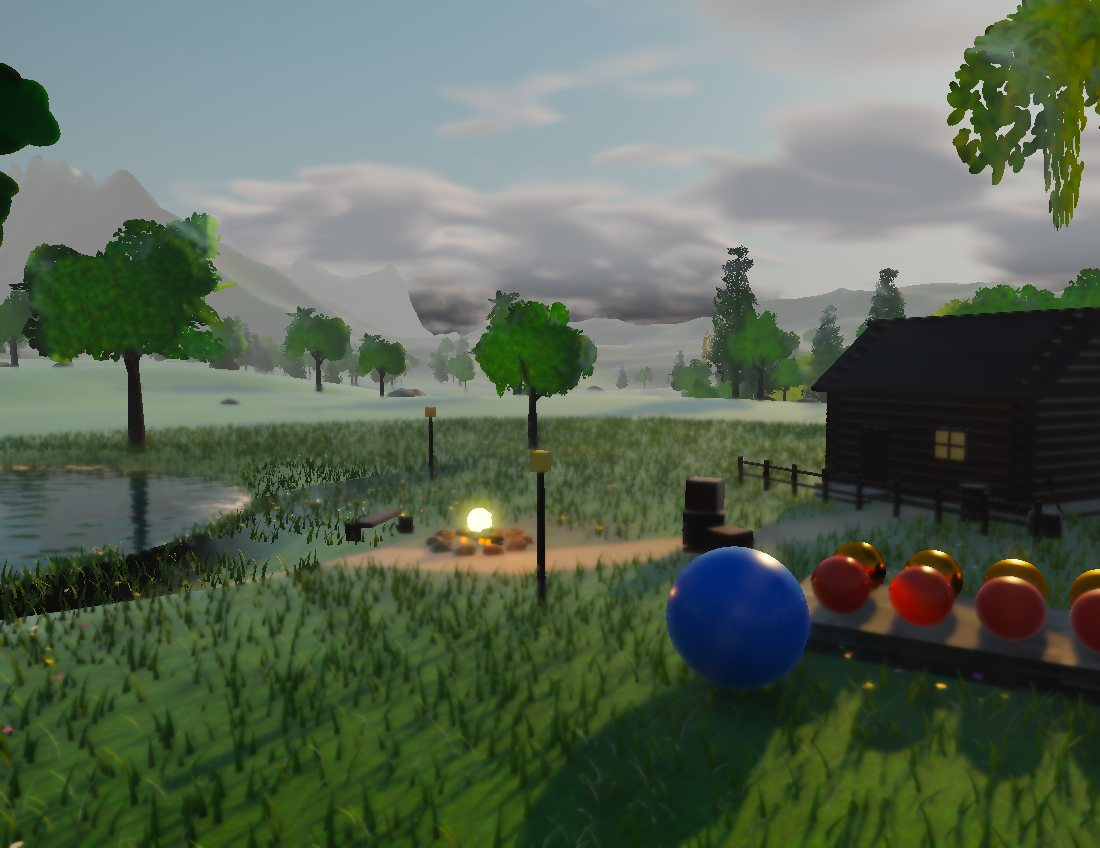
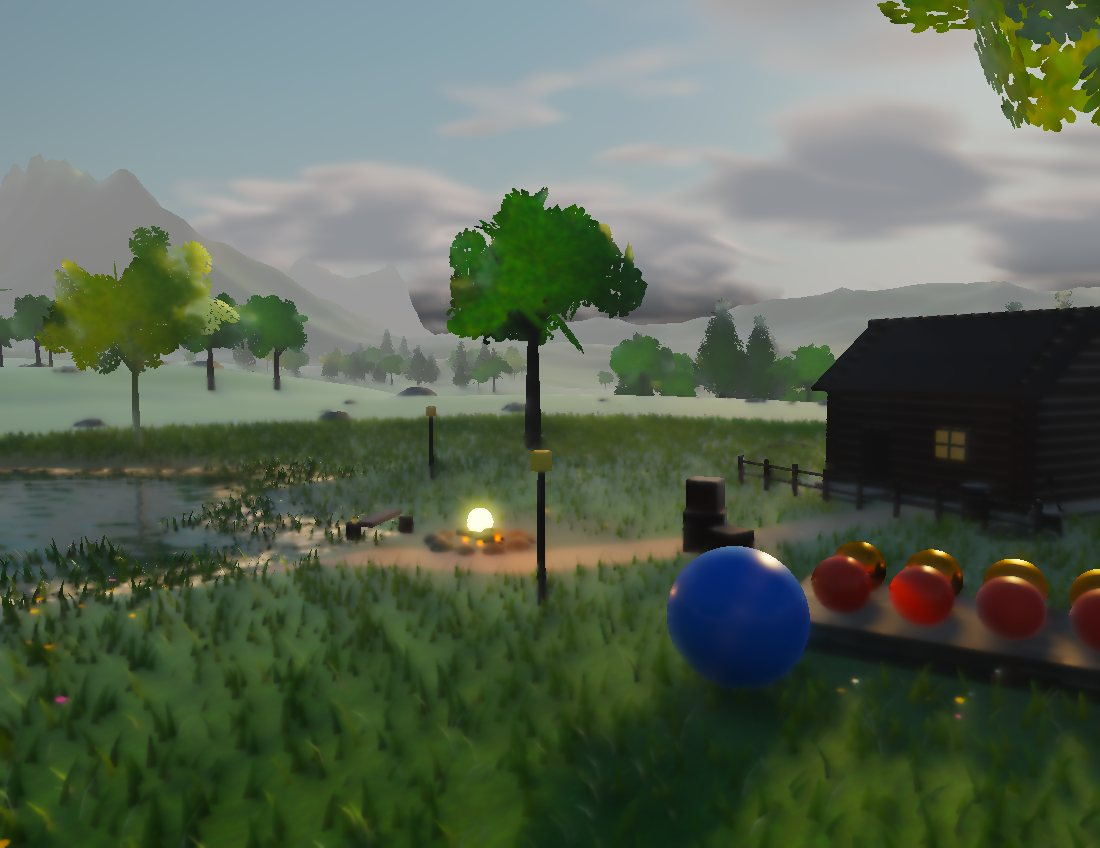
Sky, Sun & Light: a real water level, steadier grass, faster defaults

diff --git a/sandbox/sky-and-light.html b/sandbox/sky-and-light.html
@@ -75,20 +75,20 @@ const compose = (p, ry, s) => new THREE.Matrix4().compose(p, new THREE.Quaternio
 
 // the ground: flat around the camp, rolling hills, then mountains with snow, from noise
 const LAKE = new THREE.Vector3(-19, 0, 11), LAKE_R = 11.5, FIRE = new THREE.Vector3(1.5, 0, 4), CABIN = new THREE.Vector3(10.5, 0, -9);
-function terrainH(x, z) { const d = Math.hypot(x, z); const flat = sstep(38, 130, d); const hills = (fbm(x / 230 + 5, z / 230 + 9, 4) - 0.5) * 2 * 24; const far = sstep(380, 1000, d); const ridge = ridged(x / 760 + 3, z / 760 + 1, 5); const mountains = ridge * ridge * 300 * far; const detail = (fbm(x / 16, z / 16, 3) - 0.5) * 1.4; const dl = Math.hypot(x - LAKE.x, z - LAKE.z); const dip = -3.2 * (1 - sstep(LAKE_R - 3, LAKE_R + 3.5, dl)); return flat * (hills + mountains) + detail * (0.25 + 0.75 * flat) + dip; }
+function terrainH(x, z) { const d = Math.hypot(x, z); const flat = sstep(38, 130, d); const hills = (fbm(x / 230 + 5, z / 230 + 9, 4) - 0.5) * 2 * 24; const far = sstep(380, 1000, d); const ridge = ridged(x / 760 + 3, z / 760 + 1, 5); const mountains = ridge * ridge * 300 * far; const detail = (fbm(x / 16, z / 16, 3) - 0.5) * 1.4; const dl = Math.hypot(x - LAKE.x, z - LAKE.z); const dip = -3.4 * (1 - sstep(LAKE_R - 4, LAKE_R + 2.5, dl)); return flat * (hills + mountains) + detail * (0.25 + 0.75 * flat) + dip; }
 const t0 = performance.now();
 { const g = new THREE.PlaneGeometry(2600, 2600, 300, 300); g.rotateX(-Math.PI / 2); const pos = g.attributes.position; for (let i = 0; i < pos.count; i++) pos.setY(i, terrainH(pos.getX(i), pos.getZ(i))); g.computeVertexNormals(); const bi = newBlas(); addPart(bi, g, M.TERRAIN); addInst(bi, new THREE.Matrix4()); }
 
 // grass: one bent blade, copied tens of thousands of times straight into world space (one flat tree of boxes beats a box per blade)
 const PATH = [[CABIN.x - 1.2, CABIN.z + 3.2], [7, 0], [FIRE.x + 1.8, FIRE.z + 1.2], [-4, 8], [LAKE.x + LAKE_R - 1.5, LAKE.z - 3]];
 function pathDist(x, z) { let d = 1e9; for (let i = 0; i + 1 < PATH.length; i++) { const [ax, az] = PATH[i], [bx, bz] = PATH[i + 1]; const vx = bx - ax, vz = bz - az; const t = Math.max(0, Math.min(1, ((x - ax) * vx + (z - az) * vz) / (vx * vx + vz * vz))); d = Math.min(d, Math.hypot(x - ax - vx * t, z - az - vz * t)); } return d; }
-function clearOf(x, z) { if (pathDist(x, z) < 0.75 + fbm(x * 0.5, z * 0.5, 2) * 0.4) return false; if (Math.hypot(x - LAKE.x, z - LAKE.z) < LAKE_R + 1) return false; if (Math.hypot(x - FIRE.x, z - FIRE.z) < 2.4) return false; const dx = x - CABIN.x, dz = z - CABIN.z, ca = Math.cos(0.55), sa = Math.sin(0.55); const lx = dx * ca - dz * sa, lz = dx * sa + dz * ca; if (Math.abs(lx) < 4.4 && Math.abs(lz) < 3.6) return false; if (Math.abs(x - 13) < 4.2 && Math.abs(z - 6) < 1.8) return false; return true; }
-{ const segs = 3, w = 0.03; const P = [], Uv = [], I = []; for (let i = 0; i <= segs; i++) { const t = i / segs, ww = w * (1 - t * 0.85); P.push(-ww, t, t * t * 0.18, ww, t, t * t * 0.18); Uv.push(0, t, 1, t); } for (let i = 0; i < segs; i++) { const a = i * 2; I.push(a, a + 1, a + 2, a + 1, a + 3, a + 2); }
+function clearOf(x, z) { if (pathDist(x, z) < 0.75 + fbm(x * 0.5, z * 0.5, 2) * 0.4) return false; if (terrainH(x, z) < -0.35) return false; if (Math.hypot(x - FIRE.x, z - FIRE.z) < 2.4) return false; const dx = x - CABIN.x, dz = z - CABIN.z, ca = Math.cos(0.55), sa = Math.sin(0.55); const lx = dx * ca - dz * sa, lz = dx * sa + dz * ca; if (Math.abs(lx) < 4.4 && Math.abs(lz) < 3.6) return false; if (Math.abs(x - 13) < 4.2 && Math.abs(z - 6) < 1.8) return false; return true; }
+{ const segs = 2, w = 0.03; const P = [], Uv = [], I = []; for (let i = 0; i <= segs; i++) { const t = i / segs, ww = w * (1 - t * 0.85); P.push(-ww, t, t * t * 0.18, ww, t, t * t * 0.18); Uv.push(0, t, 1, t); } for (let i = 0; i < segs; i++) { const a = i * 2; I.push(a, a + 1, a + 2, a + 1, a + 3, a + 2); }
   const g0 = new THREE.BufferGeometry(); g0.setAttribute('position', new THREE.Float32BufferAttribute(P, 3)); g0.setAttribute('uv', new THREE.Float32BufferAttribute(Uv, 2)); g0.setIndex(I); g0.computeVertexNormals(); const g = g0.toNonIndexed();
   const bp = g.attributes.position.array, bn = g.attributes.normal.array, bu = g.attributes.uv.array, nv = g.attributes.position.count; const bi = newBlas(); const B = blas[bi];
   let n = 0, tries = 0; const m = new THREE.Matrix4(), nm = new THREE.Matrix3(), p = new THREE.Vector3(), sc = new THREE.Vector3(), vv = new THREE.Vector3(), vn3 = new THREE.Vector3();
-  while (n < 45000 && tries++ < 300000) { const a = rnd() * Math.PI * 2, r = 36 * Math.sqrt(rnd()); const x = Math.cos(a) * r, z = Math.sin(a) * r; if (!clearOf(x, z)) continue; if (rnd() > 0.35 + 0.65 * fbm(x / 9, z / 9, 2)) continue;
-    p.set(x, terrainH(x, z) - 0.02, z); sc.set(1 + rnd() * 0.5, 0.16 + rnd() * 0.28, 1); m.compose(p, new THREE.Quaternion().setFromAxisAngle(UPV, rnd() * Math.PI * 2), sc); nm.getNormalMatrix(m);
+  while (n < 32000 && tries++ < 300000) { const a = rnd() * Math.PI * 2, r = 36 * Math.sqrt(rnd()); const x = Math.cos(a) * r, z = Math.sin(a) * r; if (!clearOf(x, z)) continue; if (rnd() > 0.35 + 0.65 * fbm(x / 9, z / 9, 2)) continue; const far = Math.pow(r / 36, 1.5);
+    p.set(x, terrainH(x, z) - 0.02, z); sc.set((1 + rnd() * 0.5) * (1 + 2.2 * far), 0.16 + rnd() * 0.28 + 0.1 * far, 1); m.compose(p, new THREE.Quaternion().setFromAxisAngle(UPV, rnd() * Math.PI * 2), sc); nm.getNormalMatrix(m);
     for (let i = 0; i < nv; i++) { vv.set(bp[i * 3], bp[i * 3 + 1], bp[i * 3 + 2]).applyMatrix4(m); vn3.set(bn[i * 3], bn[i * 3 + 1], bn[i * 3 + 2]).applyMatrix3(nm).normalize(); B.tris.push(vv.x, vv.y, vv.z); B.nrms.push(vn3.x, vn3.y, vn3.z); B.uvs.push(bu[i * 2], bu[i * 2 + 1]); if (i % 3 === 0) B.mats.push(M.GRASS); } n++; }
   // wildflowers: a stem and a small tilted head, in drifts
   let nf = 0, ft = 0; while (nf < 2200 && ft++ < 60000) { const a = rnd() * Math.PI * 2, r = 34 * Math.sqrt(rnd()); const x = Math.cos(a) * r, z = Math.sin(a) * r; if (!clearOf(x, z)) continue; if (fbm(x / 6 + 40, z / 6 + 9, 2) < 0.58) continue; const y = terrainH(x, z); const mat = rnd() < 0.5 ? FLOWER_Y : rnd() < 0.6 ? FLOWER_W : FLOWER_P; const hgt = 0.22 + rnd() * 0.16;
@@ -153,7 +153,7 @@ const rockB = [newBlas(), newBlas()]; addPart(rockB[0], rockGeo(3), M.ROCK); add
   for (let i = 0; i < 10; i++) { const a = i / 10 * Math.PI * 2, s = 0.22 + rnd() * 0.1; addInst(rockB[i % 2], new THREE.Matrix4().compose(new THREE.Vector3(FIRE.x + Math.cos(a) * 1.05, fy + 0.05, FIRE.z + Math.sin(a) * 1.05), new THREE.Quaternion().setFromAxisAngle(UPV, rnd() * 6), new THREE.Vector3(s, s, s))); }
   for (let i = 0; i < 6; i++) spheres.push({ c: new THREE.Vector3(FIRE.x + (rnd() - 0.5) * 0.7, fy + 0.1, FIRE.z + (rnd() - 0.5) * 0.7), r: 0.06, mat: M.EMBER, light: 0 });
   spheres.push({ c: new THREE.Vector3(FIRE.x, fy + 0.55, FIRE.z), r: 0.3, mat: M.FLAME, light: 1 });
-  const lake = new THREE.CircleGeometry(LAKE_R + 1.5, 64); lake.rotateX(-Math.PI / 2); add(lake, M.WATER, new THREE.Vector3(LAKE.x, -0.55, LAKE.z));
+  const lake = new THREE.CircleGeometry(19, 72); lake.rotateX(-Math.PI / 2); add(lake, M.WATER, new THREE.Vector3(LAKE.x, -0.55, LAKE.z));
   addInst(bi, new THREE.Matrix4()); }
 const plinthY = terrainH(13, 6) + 0.2; const ballSpots = [];
 for (let i = 0; i < 6; i++) for (let row = 0; row < 2; row++) { const c = new THREE.Vector3(13 - 2.75 + i * 1.1, plinthY + 0.25 + 0.42, 6 + (row ? -0.6 : 0.6)); ballSpots.push(c); spheres.push({ c, r: 0.42, mat: BALL0 + i * 2 + row, light: 0 }); }
@@ -502,14 +502,14 @@ fn terrainColor(p: vec3f, n: vec3f) -> vec3f { let slope = 1.0 - n.y; let macroN
   var c = mix(${v3s(0x4f7a2f).replace('vec3(', 'vec3f(')}, ${v3s(0x6f8a3a).replace('vec3(', 'vec3f(')}, smoothstep(0.35, 0.65, macroN)); c = mix(c, ${v3s(0x3f6a33).replace('vec3(', 'vec3f(')}, smoothstep(0.3, 0.7, micro) * 0.5);
   c = mix(c, ${v3s(0x6b5a3c).replace('vec3(', 'vec3f(')}, smoothstep(0.22, 0.45, slope + (micro - 0.5) * 0.15)); c = mix(c, ${v3s(0x76726a).replace('vec3(', 'vec3f(')}, smoothstep(0.4, 0.62, slope));
   let snowLine = 150.0 + (macroN - 0.5) * 60.0; c = mix(c, ${v3s(0xf2f5f8).replace('vec3(', 'vec3f(')}, smoothstep(snowLine, snowLine + 35.0, p.y) * (1.0 - smoothstep(0.5, 0.75, slope)));
-  let dl = distance(p.xz, LAKE); c = mix(c, ${v3s(0x8c7d5c).replace('vec3(', 'vec3f(')}, (1.0 - smoothstep(LAKE_R + 0.5, LAKE_R + 4.0, dl)) * 0.85);
+  let dl = distance(p.xz, LAKE); let shore = (1.0 - smoothstep(-0.2, 0.5, p.y)) * (1.0 - smoothstep(LAKE_R + 2.0, LAKE_R + 7.0, dl)); c = mix(c, ${v3s(0x8c7d5c).replace('vec3(', 'vec3f(')}, shore * 0.9);
   let df = distance(p.xz, FIRE); c = mix(c, ${v3s(0x6b5a3c).replace('vec3(', 'vec3f(')}, (1.0 - smoothstep(2.5, 5.0, df + (micro - 0.5) * 2.0)) * 0.8);
   let gt = pow(textureSampleLevel(texArr, samp, p.xz * 0.35, 9, 0.0).rgb, vec3f(2.2)); let det = textureSampleLevel(texArr, samp, p.xz * 0.14, 8, 0.0).r; c = c * (0.55 + 0.9 * det) * mix(vec3f(1.0), gt * 3.2, 0.55);
   let an = pow(abs(n), vec3f(4.0)); let aw = an / (an.x + an.y + an.z); let rk = pow(textureSampleLevel(texArr, samp, p.zy * 0.12, 5, 0.0).rgb, vec3f(2.2)) * aw.x + pow(textureSampleLevel(texArr, samp, p.xz * 0.12, 5, 0.0).rgb, vec3f(2.2)) * aw.y + pow(textureSampleLevel(texArr, samp, p.xy * 0.12, 5, 0.0).rgb, vec3f(2.2)) * aw.z;
   let rockAmt = smoothstep(0.3, 0.55, slope + (micro - 0.5) * 0.2); c = mix(c, rk * 1.5 * mix(vec3f(0.9, 0.88, 0.85), vec3f(1.0), 0.5), rockAmt * (1.0 - smoothstep(snowLine + 10.0, snowLine + 45.0, p.y)));
   let far = smoothstep(150.0, 260.0, length(p.xz)); let forest = smoothstep(0.42, 0.5, fb3(p.xz / 110.0 + vec2f(8.0, 2.0))) * (1.0 - smoothstep(110.0, 130.0, p.y)) * (1.0 - smoothstep(0.35, 0.5, slope)); let canopy = fb3(p.xz * 0.35); c = mix(c, vec3f(0.06, 0.13, 0.05) * (0.7 + 0.6 * canopy), forest * far * 0.85);
   let pd = pathDist(p.xz); c = mix(c, vec3f(0.30, 0.22, 0.13) * (0.8 + 0.4 * det), 1.0 - smoothstep(0.55, 1.05, pd + (micro - 0.5) * 0.4));
-  c = mix(c, c * 0.55, (1.0 - smoothstep(LAKE_R - 0.5, LAKE_R + 1.6, dl))); return c; }
+  c = mix(c, c * 0.5, (1.0 - smoothstep(-0.6, 0.0, p.y)) * (1.0 - smoothstep(LAKE_R + 2.0, LAKE_R + 7.0, dl))); return c; }
 const NPATH: i32 = ${PATH.length};
 fn pathDist(q: vec2f) -> f32 { var pts = array<vec2f, ${PATH.length}>(${PATH.map(([x, z]) => `vec2f(${x.toFixed(2)}, ${z.toFixed(2)})`).join(', ')}); var d = 1e9; for (var i = 0; i < NPATH - 1; i++) { let a = pts[i]; let b = pts[i + 1]; let v = b - a; let t = clamp(dot(q - a, v) / dot(v, v), 0.0, 1.0); d = min(d, length(q - a - v * t)); } return d; }
 fn grassColor(p: vec3f, uv: vec2f) -> vec3f { let h = vn(p.xz * 0.15 + 3.0); let g = mix(${v3s(0x3f7a22).replace('vec3(', 'vec3f(')}, ${v3s(0x86a83a).replace('vec3(', 'vec3f(')}, h); return g * mix(0.35, 1.05, uv.y); }
@@ -590,7 +590,7 @@ fn upsampleG(px: vec2i, A: vec4f, n: vec3f) -> vec4f { let st = P.giStride; let 
     let ndl = max(dot(n, P.sunDir.xyz), 0.0); col += P.sunCol.xyz * sunVis * ndl * (diffuse + specBRDF(n, v, P.sunDir.xyz, rough, F0));
     let mflag = P.matB[i32(D.w)].w; if (mflag == 4.0 || mflag == 2.0) { let back = max(-dot(n, P.sunDir.xyz), 0.0); col += P.sunCol.xyz * alb * vec3f(0.9, 1.0, 0.6) * back * select(0.22, 0.32, mflag == 4.0) * (0.3 + 0.7 * sunVis) * max(dot(v, -P.sunDir.xyz), 0.0); }
     let ndm = max(dot(n, P.moonDir.xyz), 0.0); col += P.moonCol.xyz * moonVis * ndm * diffuse;
-    col += sphereLights(p + n * 3e-3, n, v, diffuse, F0, rough, ign0(vec2f(px)), 1, 24.0);
+    col += sphereLights(p + n * 3e-3, n, v, diffuse, F0, rough, ign0(vec2f(px)), 1, 20.0);
     col += diffuse * E;
     let R = textureLoad(tR, px, 0); let open = clamp(dot(E, vec3f(0.33)) / max(dot(skyAmb(n), vec3f(0.33)), 1e-3), 0.0, 1.0);
     let specAmb = F * mix(P.skyHor.xyz, P.skyZen.xyz, reflect(-v, n).y * 0.5 + 0.5) * P.skyOn * open;
@@ -699,8 +699,8 @@ async function startWebGPU() {
 gpu = await startWebGPU();
 
 // ---- state
-let hour = 9.5, running = false, sunStrength = 1, moonOn = true, lightFrom = 'both', autoExp = true, exposure = 0.5, fogOn = true, fogDensity = 0.0015, stillScale = 1, moveScale = 1, accumulate = true, fireOn = true, lampsOn = true, rowsOn = true, denoise = true, quality = 'high';
-let lastMove = 0, runT = 0; const lastCam = new THREE.Matrix4(); let stateKey = '';
+let hour = 9.5, running = false, sunStrength = 1, moonOn = true, lightFrom = 'both', autoExp = true, exposure = 0.5, fogOn = true, fogDensity = 0.0015, stillScale = 1, moveScale = 1, accumulate = true, fireOn = true, lampsOn = true, rowsOn = true, denoise = true, quality = 'balanced';
+let lastMove = 0, runT = 0, stillN = 0; const lastCam = new THREE.Matrix4(); let stateKey = '';
 function dirty() { accN = 0; }
 function placeSun() {
   const el = 72 * Math.sin(Math.PI * (hour - 5) / 15) * Math.PI / 180, az = (90 + (hour - 12.5) * 15) * Math.PI / 180;
@@ -759,7 +759,7 @@ s5.slider('Sun shafts', { min: 0, max: 1, step: 0.02, value: 0.35, fmt: v => (+v
 
 const s6 = sb.panel.section('06 · The renderer', 'This is how a game ray traces: one ray per pixel finds the surface, a few rays per pixel ask the sun, the moon, the fire and the sky, one mirror ray serves anything smooth, and the soft light is worked out at half size and smoothed without crossing edges. Nothing is random, so every frame is complete. Holding still only adds anti-aliasing.');
 s6.segment('Show', [{ value: 0, label: 'the picture' }, { value: 1, label: 'the sun\'s shadow rays' }, { value: 2, label: 'sky and bounce light' }, { value: 3, label: 'the mirror rays' }], 0, v => { compMat.uniforms.uView.value = +v; dirty(); });
-s6.segment('Quality', [{ value: 'balanced', label: 'balanced' }, { value: 'high', label: 'high' }, { value: 'ultra', label: 'ultra' }], 'high', v => { quality = v; if (v === 'ultra') { U.uShadowK.value = 4; U.uGiK.value = 6; } dirty(); });
+s6.segment('Quality', [{ value: 'balanced', label: 'balanced' }, { value: 'high', label: 'high' }, { value: 'ultra', label: 'ultra' }], 'balanced', v => { quality = v; if (v === 'ultra') { U.uShadowK.value = 4; U.uGiK.value = 6; } dirty(); });
 s6.segment('Shadow rays per pixel, toward the sun', [{ value: 1, label: '1' }, { value: 2, label: '2' }, { value: 4, label: '4' }, { value: 8, label: '8' }], 2, v => { U.uShadowK.value = +v; dirty(); });
 s6.segment('Rays per pixel for sky and bounce light', [{ value: 2, label: '2' }, { value: 4, label: '4' }, { value: 6, label: '6' }, { value: 8, label: '8' }], 4, v => { U.uGiK.value = +v; dirty(); });
 s6.toggle('smooth the shadow and bounce answers (denoise)', true, v => { denoise = v; dirty(); });
@@ -767,7 +767,7 @@ s6.segment('Picture size while still', [{ value: 1, label: 'full' }, { value: 0.
 s6.segment('Picture size while moving', [{ value: 1, label: 'full' }, { value: 0.5, label: 'half' }, { value: 0.35, label: 'a third' }], 1, v => { moveScale = +v; });
 s6.toggle('anti-alias by blending frames while still', true, v => { accumulate = v; dirty(); });
 const triRead = s6.readout('triangles in the scene'), instRead = s6.readout('placed copies'), boxRead = s6.readout('boxes in the trees'), buildRead = s6.readout('building the trees took'), accRead = s6.readout('frames blended for anti-aliasing'), msRead = s6.readout('milliseconds per frame');
-triRead(totalTris.toLocaleString() + (gpu ? ' · WebGPU' : ' · WebGL')); instRead(NI.toLocaleString() + ' (' + treeCount + ' trees, 45,000 blades of grass)'); boxRead(nodeTotal.toLocaleString()); buildRead((genMs + buildMs).toFixed(0) + ' ms');
+triRead(totalTris.toLocaleString() + (gpu ? ' · WebGPU' : ' · WebGL')); instRead(NI.toLocaleString() + ' (' + treeCount + ' trees, 32,000 blades of grass)'); boxRead(nodeTotal.toLocaleString()); buildRead((genMs + buildMs).toFixed(0) + ' ms');
 
 const sunPos = new THREE.Vector3(); const sunLabel = sb.label('the sun', sunPos, 'amber');
 sb.label('the lake: the sky, reflected', new THREE.Vector3(LAKE.x, 0, LAKE.z)).off.set(0, 0.6, 0);
@@ -783,7 +783,7 @@ placeSun();
 sb.onFrame((dt) => {
   if (running) { runT += dt; if (runT > 2) { runT = 0; hour += 0.35; if (hour > 21) hour = 4.5; hourS.set(hour, false); placeSun(); } }
   fx.time += dt; { const night = 1 - THREE.MathUtils.smoothstep(sunDir.y, -0.02, 0.06); fireflies.forEach((f, i) => { const sp = spheres[spheres.length - 14 + i]; const t = fx.time * 0.35 + f.s; sp.c.set(f.x + Math.sin(t * 1.3) * 2.2 + Math.sin(t * 0.7 + 2) * 1.1, night > 0.2 ? terrainH(f.x, f.z) + f.h + Math.sin(t * 2.1) * 0.35 : -500, f.z + Math.cos(t * 1.1) * 2.2 + Math.cos(t * 0.5 + 1) * 1.0); }); matB[FIREFLY * 4 + 1] = 12 * (0.5 + 0.5 * Math.sin(fx.time * 3)) * night; writeSpheres(); }
-  if (fireOn) { const fl = 0.92 + 0.12 * vnoise(fx.time * 6, 3) + 0.05 * vnoise(fx.time * 17, 8); matB[M.FLAME * 4 + 1] = 45 * fl; matB[M.EMBER * 4 + 1] = 6 * (0.85 + 0.3 * vnoise(fx.time * 4, 1)); const fs = spheres[8]; fs.c.set(FIRE.x + (vnoise(fx.time * 5, 2) - 0.5) * 0.06, terrainH(FIRE.x, FIRE.z) + 0.55 + (vnoise(fx.time * 6, 4) - 0.5) * 0.08, FIRE.z + (vnoise(fx.time * 5, 9) - 0.5) * 0.06); fs.r = 0.28 + 0.04 * vnoise(fx.time * 9, 6); writeSpheres(); }
+  if (fireOn) { const fl = 0.95 + 0.07 * vnoise(fx.time * 5, 3) + 0.03 * vnoise(fx.time * 13, 8); matB[M.FLAME * 4 + 1] = 45 * fl; matB[M.EMBER * 4 + 1] = 6 * (0.85 + 0.3 * vnoise(fx.time * 4, 1)); const fs = spheres[8]; fs.c.set(FIRE.x + (vnoise(fx.time * 4, 2) - 0.5) * 0.03, terrainH(FIRE.x, FIRE.z) + 0.55 + (vnoise(fx.time * 5, 4) - 0.5) * 0.05, FIRE.z + (vnoise(fx.time * 4, 9) - 0.5) * 0.03); fs.r = 0.29 + 0.02 * vnoise(fx.time * 7, 6); writeSpheres(); }
   const now = performance.now(); if (lastNow) msAvg += ((now - lastNow) - msAvg) * 0.08; lastNow = now; msRead(msAvg.toFixed(1) + ' ms');
   expRead(exposure.toFixed(2) + (autoExp ? ', automatic' : ', by hand')); accRead(!accumulate ? 'off' : gpu ? 'temporal, reprojected' : Math.min(accN, 32) + (accN === 1 ? ' frame' : ' frames') + (rtScale < 1 ? ', small picture' : ''));
   sb.hud('mode', (hour < 5 || hour > 20 ? 'night: dark except where the fire and the lanterns reach, and a little moon' : hour < 8 || hour > 17.5 ? 'a low sun through a lot of air: orange light, long soft shadows' : 'high sun: white light, blue sky, hills fading into blue haze') + ' · one ray per pixel finds the surface, a few more light it');
@@ -797,7 +797,8 @@ sb.onRender((scene, camera, renderer) => {
     const hal = (i, b) => { let f = 1, r = 0; while (i > 0) { f /= b; r += f * (i % b); i = Math.floor(i / b); } return r; }; const k = frame % 8 + 1; const jit = accumulate ? new THREE.Vector2((hal(k, 2) - 0.5) * 0.7, (hal(k, 3) - 0.5) * 0.7) : new THREE.Vector2(); U.uNoiseShift.value = accumulate ? (frame % 16) * 0.618034 : 0;
     U.uInvPV.value.copy(invPV); U.uCamPos.value.copy(camera.position); U.uFrame.value = frame++; accN = accumulate ? Math.min(accN + 1, 32) : 0;
     const ss = quality === 'balanced' ? 2 : 1, gs = quality === 'ultra' ? 2 : 4;
-    gpu.render(w, h, accumulate ? (moving ? 0.12 : 0.03) : 1, compMat.uniforms.uView.value, jit, denoise, ss, gs); return;
+    stillN = moving ? 0 : stillN + 1; const taaBlend = moving ? 0.12 : stillN < 40 ? 0.05 : stillN < 120 ? 0.02 : 0.01;
+    gpu.render(w, h, accumulate ? taaBlend : 1, compMat.uniforms.uView.value, jit, denoise, ss, gs); return;
   }
   if (!lastCam.equals(camera.matrixWorld)) { lastCam.copy(camera.matrixWorld); lastMove = performance.now(); dirty(); }
   const moving = performance.now() - lastMove < 300; const scale = moving ? moveScale : stillScale; if (scale !== rtScale) { rtScale = scale; ensureRT(scale); dirty(); } else ensureRT(scale);
